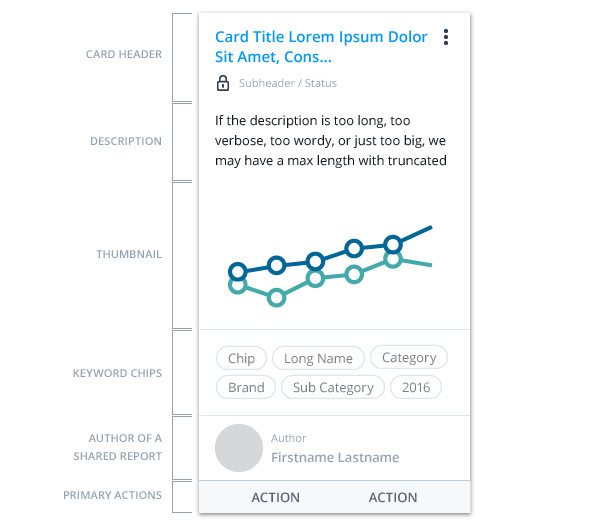
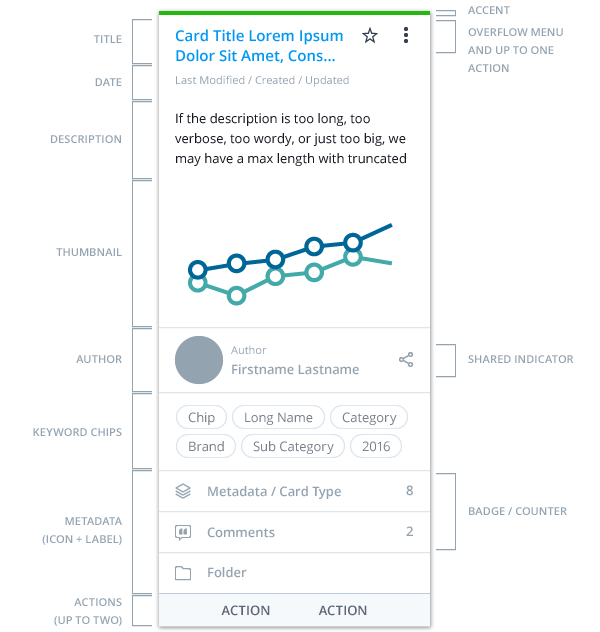
Revise Card Patterns

diff --git a/p_card_vertical.php b/p_card_vertical.php
@@ -20,13 +20,38 @@
 		<article id="guidelines">
 			<div id="container">
 				<section>
-					<h4>All Content Types</h4>
-					<img src="img/guide/p_card_vertical_01.png" alt="Vertical Card Layout - All Content Types">
+					<h4>Large Card / All Content Types</h4>
+					<img src="img/guide/p_card_vertical_01.png" alt="Large Card / All Content Types">
 				</section>
+				<!-- -->
 				<section>
-					<h4>Card Examples</h4>
-					<img src="img/guide/p_card_vertical_02.png" alt="Vertical Card Examples">
+					<h4>Medium Card Examples</h4>
+					<img src="img/guide/p_card_vertical_02.png" alt="Medium Card Examples">
 				</section>
+				<!-- -->
+				<section>
+					<h4>Small Card Examples</h4>
+					<img src="img/guide/p_card_vertical_03.png" alt="Small Card Examples">
+				</section>
+				<!-- -->
+				<section>
+					<h2>Acceptable Deviations</h2>
+					<section class="full">
+						<h4>Headers &amp; Footers</h4>
+						<img src="img/guide/p_card_vertical_04.png" alt="Headers &amp; Footers">
+					</section>
+					<!-- -->
+					<section class="full">
+						<h4>Select States</h4>
+						<img src="img/guide/p_card_vertical_05.png" alt="Select States">
+					</section>
+					<!-- -->
+					<section class="full">
+						<h4>Expandable Cards</h4>
+						<img src="img/guide/p_card_vertical_06.png" alt="Expandable Cards">
+					</section>
+				</section>
+				<!-- -->
 				<aside>
 					<dl class="related">
 						<dt>Related Content</dt>

diff --git a/p_card_wide.php b/p_card_wide.php
@@ -85,6 +85,13 @@
 						<dd class="pg_link"><a href="card.php">Card Component</a></dd>
 						<dd class="pg_link"><a href="p_card_vertical.php">Vertical Card Patterns</a></dd>
 					</dl>
+					<dl>
+						<dl class="dl_root">
+							<dt>Measurements</dt>
+							<dd>Basic Card Height: <span class="pxrem">90px</span></dd>
+							<dd>Accent Width: <span class="pxrem">10px</span></dd>
+							<dd>Left Padding: <span class="pxrem">20px</span></dd>
+						</dl>
 				</aside>
 			</div>
 		</article>
